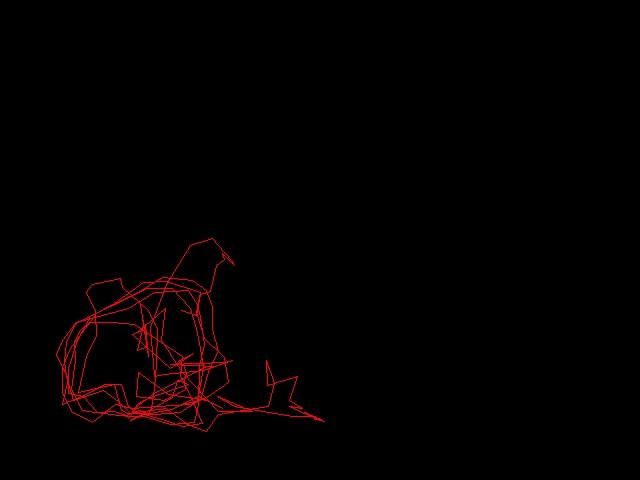
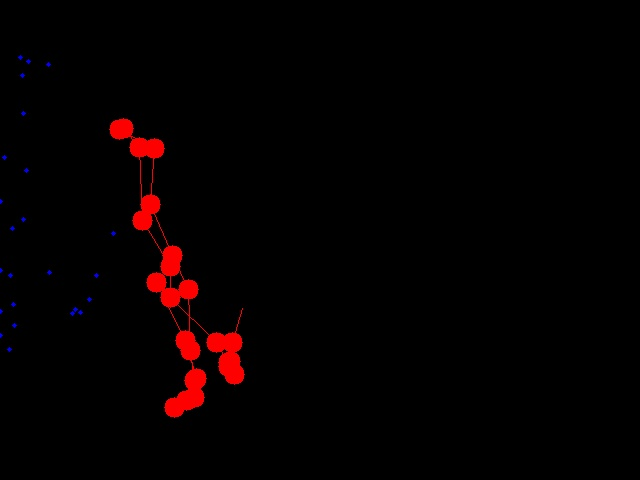
Final with drawing

diff --git a/Camshift/camshiftprocessing.cpp b/Camshift/camshiftprocessing.cpp
@@ -15,6 +15,9 @@ CamshiftProcessing::CamshiftProcessing():histogramranges({0,180}), backprojMode(
     averageCamshiftDistance = 0;
     IsAverageDistance = false;
 
+    posX = 0;
+    posY = 0;
+
     DrawingBoard = cv::Mat();
 }
 
@@ -161,7 +164,7 @@ void CamshiftProcessing::DrawEllipseForTrackingObject(cv::RotatedRect trackingBo
 
     if(prevtrackingBox.boundingRect().area() == 0)
         prevtrackingBox = trackingBox;
-    else {
+   /* else {
         if(IsAverageDistance) {
             if(std::sqrt(Square(prevtrackingBox.center.x - trackingBox.center.x) + Square(prevtrackingBox.center.y - trackingBox.center.y)) > (averageCamshiftDistance+30)) {
                 trackingBox.angle = prevtrackingBox.angle;// + 1;
@@ -174,7 +177,7 @@ void CamshiftProcessing::DrawEllipseForTrackingObject(cv::RotatedRect trackingBo
         } else {
             IsAverageDistanceCalculated(trackingBox);
         }
-    }
+    }*/
 
 
 
@@ -187,18 +190,69 @@ void CamshiftProcessing::DrawEllipseForTrackingObject(cv::RotatedRect trackingBo
 
     cv::ellipse( CurrentFrame, rotatedBox, cv::Scalar(0,0,255), 3, CV_AA );
 
-    if(IsAverageDistance) {
+   // if(IsAverageDistance) {
     if(drawingMode) {
-        cv::line(DrawingBoard, prevtrackingBox.center, trackingBox.center, cv::Scalar(0,0,255));//, 5, 8, CV_AA);
+        //std::cout << BoundingBoxForROIForTracking.area() << std::endl;
+        //if(BoundingBoxForROIForTracking.area() < 5000)
+          //  cv::circle(DrawingBoard, trackingBox.center, 5, cv::Scalar(0),-1, 8, CV_AA);
+        //else {
+
+
+         cv::line(DrawingBoard, prevtrackingBox.center, trackingBox.center, cv::Scalar(0,0,255));//, 5, 8, CV_AA);
+         cv::circle(DrawingBoard, trackingBox.center, 10, cv::Scalar(0,0,255), -1, 8, CV_AA);
+        //}
         //cv::circle(DrawingBoard, box.center, 20, cv::Scalar(0,255,0), -1, 8, CV_AA);
         cv::imshow("Drawing", DrawingBoard);
     }else {
         if(!DrawingBoard.empty()) {
             cv::imwrite("FirstDrawing.jpg", DrawingBoard);
+            cv::Mat cannyOutput;
+            std::vector<cv::Vec4i> hierarchy;
+            std::vector< std::vector< cv::Point> > hull;
+
+            cv::Mat inputFrame = cv::imread("/home/pratheba/workspace/QTProject/HandDetectionWithCamshift/triangle.jpg");
+
+                 cv::cvtColor(inputFrame, inputFrame, CV_BGR2GRAY);
+                 cv::blur(inputFrame, inputFrame, cv::Size(3,3));
+                 //cv::dilate(inputFrame, inputFrame, cv::Mat(), cv::Point(-1,-1), 5);
+
+                   std::vector<std::vector<cv::Point> > contourPoints;
+                   cv::Mat contourImage;
+                   std::vector<cv::Point> approx;
+
+                 cv::Canny(inputFrame, cannyOutput, 0, 255, 3);
+                 cv::threshold(cannyOutput, cannyOutput, 0, 255, cv::THRESH_BINARY);
+                 cv::imshow("thresh", cannyOutput);
+                 cv::findContours(cannyOutput, contourPoints, hierarchy, CV_RETR_EXTERNAL, CV_CHAIN_APPROX_NONE, cv::Point(0,0));
+                 contourImage = cv::Mat(cannyOutput.rows,cannyOutput.cols, CV_8UC3,cv::Scalar(0));//cv::Mat::zeros(inputFrame_.size(), CV_8UC3);
+                 hull.resize(contourPoints.size());
+
+                 for(int i=0; i < contourPoints.size(); i++)
+                     cv::convexHull(cv::Mat(contourPoints[i]), hull[i], false);
+
+                 for(int i=0; i < contourPoints.size(); i++) {
+                     cv::approxPolyDP(contourPoints[i],approx,0.01* cv::arcLength(contourPoints[i],true),true);
+                     std::cout << approx.size() << std::endl;
+
+                     cv::drawContours(contourImage, contourPoints, i, cv::Scalar(255,0,0), -1, 8, hierarchy);
+                 }
+
+                 std::cout << "hull" << std::endl;
+                 for(int i =0; i< hull.size(); i++) {
+                     cv::approxPolyDP(hull[i],approx,0.01* cv::arcLength(hull[i],true),true);
+                     std::cout << approx.size() << std::endl;
+
+                     cv::drawContours(contourImage, hull, i, cv::Scalar(0,255,0), 2, 8, hierarchy);
+                 }
+
+
+                 cv::imshow("contour image", contourImage);
+
+
             DrawingBoard.release();
         }
     }
-    }
+  //  }
     std::swap(prevtrackingBox, trackingBox);
 
     cv::imshow("Camshift", CurrentFrame);
@@ -244,6 +298,8 @@ void CamshiftProcessing::GetFinalProbabilityMask() {
 void CamshiftProcessing::ApplyFinalProbabilityMask() {
     if(trackingWindow.area() == 0)
         return;
+    if(drawingMode && !DrawingBoard.empty())
+        cv::circle(DrawingBoard, trackingWindow.tl(), 2, cv::Scalar(255,0,0), -1, 8, CV_AA);
      cv::RotatedRect trackingBox = cv::CamShift(finalProbabilityMask, trackingWindow, cv::TermCriteria( cv::TermCriteria::EPS | cv::TermCriteria::COUNT, 10, 1));
      DrawTrackingObject(trackingBox);
 }

diff --git a/FingerTipDetection/contourclass.cpp b/FingerTipDetection/contourclass.cpp
@@ -20,14 +20,19 @@ void ContourClass::FindContourImage(cv::Mat inputFrame_){
    // if(inputFrame.empty())
      //   return;
 
-    cv::Mat inputFrame = inputFrame_.clone();
+
+
+
+    cv::Mat inputFrame = cv::imread("/home/pratheba/workspace/QTProject/HandDetectionWithCamshift/circle.jpg");//inputFrame_.clone();
+    if(inputFrame.empty())
+        inputFrame = cv::imread("/home/pratheba/workspace/QTProject/HandDetectionWithCamshift/circle.jpg");//inputFrame_.clone();
     cv::Mat showingFrame = cv::Mat(400,500,inputFrame.type());
     inputFrame.copyTo(showingFrame);
 
-    cv::imshow("input", showingFrame);
+    //cv::imshow("input", showingFrame);
 
-    /*
 
+/*
     cv::Mat segmentFrame = inputFrame.clone();//inputFrame.clone();
     cv::cvtColor(segmentFrame, segmentFrame, CV_BGR2GRAY);
     cv::threshold(segmentFrame, segmentFrame, 100, 255, CV_THRESH_BINARY);
@@ -87,7 +92,8 @@ void ContourClass::FindContourImage(cv::Mat inputFrame_){
                   cv::imshow("dst", dst);*/
 
 
-    /*
+    //while(true) {
+         //videoProcessorClass->capture.read(inputFrame);
     cv::Mat cannyOutput;
     std::vector<cv::Vec4i> hierarchy;
     std::vector< std::vector< cv::Point> > hull;
@@ -97,6 +103,8 @@ void ContourClass::FindContourImage(cv::Mat inputFrame_){
 
          cv::cvtColor(inputFrame, inputFrame, CV_BGR2GRAY);
          cv::blur(inputFrame, inputFrame, cv::Size(3,3));
+         cv::Mat contourImage;
+         std::vector<std::vector<cv::Point> > contourPoints;
 
          cv::Canny(inputFrame, cannyOutput, 100, 200, 3);
          //cv::threshold(cannyOutput, cannyOutput, 150, 200, cv::THRESH_BINARY);
@@ -114,16 +122,23 @@ void ContourClass::FindContourImage(cv::Mat inputFrame_){
 
          ShowContourImage();
 
-    //     int c = cvWaitKey(10);
+     //    int c = cvWaitKey(10);
       //   if(c==27)  //ESC key
         //     break;
   //  }
-  */
+
+
+
+                          // if(c==27)  //ESC key
+                          //     break;
 
 }
 
 void ContourClass::ShowContourImage(){
     cv::imshow("contour image", contourImage);
 }
+
+
+
 
 

diff --git a/Camshift/motiondetectionclass.cpp b/Camshift/motiondetectionclass.cpp
@@ -58,7 +58,7 @@ void MotionDetectionClass::DrawCentroid(cv::Point centroidPoint) {
 
 void MotionDetectionClass::SeperateHand() {
     cv::normalize(motionMask, motionMask,0, 255, cv::NORM_MINMAX, CV_8UC1);
-    cv::threshold(motionMask, handRegion, 200,255, CV_8UC1);
+    cv::threshold(motionMask, handRegion, 230,255, CV_8UC1);
     SetTheCentroidPoint();
     DrawCentroid(centroidPoint);
 }

diff --git a/main.cpp b/main.cpp
@@ -54,6 +54,7 @@ int main(int argc, const char *argv[]) {
     //ContourClass* contourClass = new ContourClass();
     //contourClass->FindContourImage(cv::Mat());
 
+
     //ImageSegmentation* imgSegment = new ImageSegmentation();
     //imgSegment->SegmentByWaterShed(cv::Mat());
 

diff --git a/Camshift/camshiftprocessing.h b/Camshift/camshiftprocessing.h
@@ -74,6 +74,8 @@ private:
      bool IsAverageDistanceCalculated(cv::RotatedRect trackingBox);
      void newLocationOfCenter(cv::RotatedRect& trackingBox);
 
+     int posX, posY;
+
 
 };
 

diff --git a/Camshift/lkpyramid.cpp b/Camshift/lkpyramid.cpp
@@ -6,7 +6,7 @@
 
 static int ROWSTEPSIZE = 2;
 static int COLSTEPSIZE = 2;
-static int THRESHOLD = 50;
+static int THRESHOLD = 100;
 
 LKPyramid* LKPyramid::lkPyramidClass = NULL;
 
